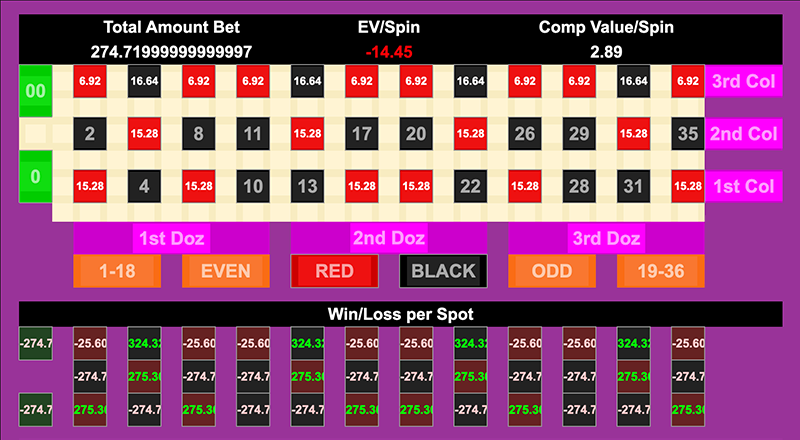
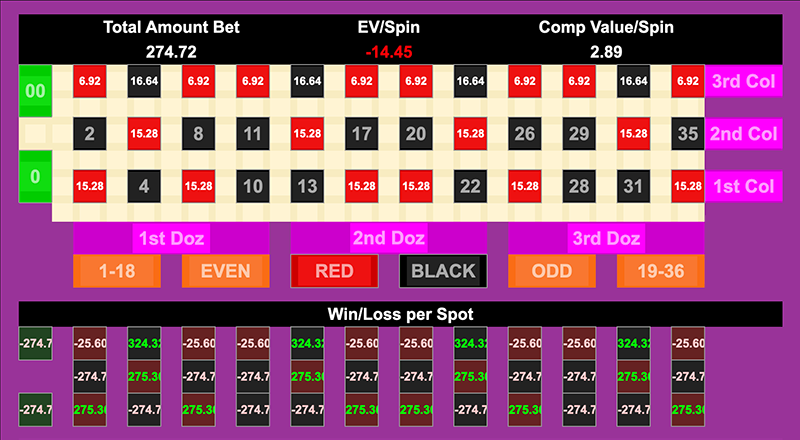
Fixed graphic for Zoidberg Cruise Missile, Fixed display bug on RBA

diff --git a/assets/js/roulette-bet-analyzer.js b/assets/js/roulette-bet-analyzer.js
@@ -223,7 +223,8 @@ function updateUi() {
         }
     }
 
-    $('#totalAmountBetDiv').text(totalBet);
+    let totalBetFormatted = formatDecimal(totalBet)
+    $('#totalAmountBetDiv').text(totalBetFormatted);
 
     if (!showBasketBetWarning) {
         // Simple calculation of house advantage
